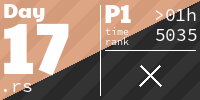
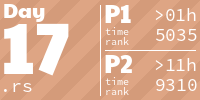
day17 - part 2

diff --git a/src/day17.rs b/src/day17.rs
@@ -1,4 +1,4 @@
-use std::{ops::BitXor, time::Instant};
+use std::ops::BitXor;
 
 use crate::utils::*;
 
@@ -8,24 +8,23 @@ use crate::utils::*;
 
 #[derive(Debug, Clone)]
 struct Machine {
-    a: u32,
-    b: u32,
-    c: u32,
-    prg: Vec<u32>,
+    a: u64,
+    b: u64,
+    c: u64,
+    prg: Vec<u64>,
     pc: usize,
-    out: Vec<u32>,
-    out_size: usize,
+    out: Vec<u64>,
 }
 
 impl Machine {
     pub fn from_str(input: &str) -> Machine {
         let mut lines = input.lines();
         let line_a = lines.next().unwrap();
-        let a = tou32(line_a.split_once(": ").unwrap().1);
+        let a = tou64(line_a.split_once(": ").unwrap().1);
         let line_b = lines.next().unwrap();
-        let b = tou32(line_b.split_once(": ").unwrap().1);
+        let b = tou64(line_b.split_once(": ").unwrap().1);
         let line_c = lines.next().unwrap();
-        let c = tou32(line_c.split_once(": ").unwrap().1);
+        let c = tou64(line_c.split_once(": ").unwrap().1);
         lines.next(); // empty line
         let line_prg = lines.next().unwrap();
         let prg = line_prg
@@ -33,7 +32,7 @@ impl Machine {
             .unwrap()
             .1
             .split(",")
-            .map(tou32)
+            .map(tou64)
             .collect();
         Machine {
             a,
@@ -42,11 +41,10 @@ impl Machine {
             prg,
             pc: 0,
             out: vec![],
-            out_size: 0,
         }
     }
 
-    pub fn combo(&self, operand: u32) -> u32 {
+    pub fn combo(&self, operand: u64) -> u64 {
         match operand {
             4 => self.a,
             5 => self.b,
@@ -65,22 +63,27 @@ impl Machine {
                 // adv
                 self.a = self.a >> combo_v;
                 self.pc += 2;
+                // println!("adv: a={}", self.a);
             }
             1 => {
                 // bxl
                 self.b = self.b.bitxor(lit_v);
                 self.pc += 2;
+                // println!("bxl: b={}", self.b);
             }
             2 => {
                 // bst
                 self.b = combo_v & 7;
                 self.pc += 2;
+                // println!("bst: b={}", self.b);
             }
             3 => {
                 // jnz
                 if self.a == 0 {
+                    // println!("jnz: noop");
                     self.pc += 2;
                 } else {
+                    // println!("jnz: pc={}", lit_v);
                     self.pc = lit_v as usize;
                 }
             }
@@ -88,22 +91,25 @@ impl Machine {
                 // bxc
                 self.b = self.b.bitxor(self.c);
                 self.pc += 2;
+                // println!("bxc: b={}", self.b);
             }
             5 => {
                 // out
                 self.out.push(combo_v & 7);
-                self.out_size += 1;
                 self.pc += 2;
+                // println!("out: val={}", combo_v & 7);
             }
             6 => {
                 // bdv
                 self.b = self.a >> combo_v;
                 self.pc += 2;
+                // println!("bdv: b={}", self.b);
             }
             7 => {
                 // cdv
                 self.c = self.a >> combo_v;
                 self.pc += 2;
+                // println!("cdv: c={}", self.c);
             }
             _ => panic!("invalid opcode"),
         }
@@ -115,23 +121,11 @@ impl Machine {
         }
     }
 
-    pub fn run_prg_with_limit(&mut self) -> bool {
-        let prg_len = self.prg.len();
-        let mut out_len = 0;
-        while self.pc < prg_len {
-            let was_out = self.prg[self.pc] == 5;
-            self.run_at_pc();
-            if was_out {
-                out_len += 1;
-                if out_len > prg_len {
-                    return false;
-                }
-                if self.out.last() != Some(&self.prg[out_len - 1]) {
-                    return false;
-                }
-            }
-        }
-        out_len == prg_len
+    pub fn run_with_a(&self, a: u64) -> Vec<u64> {
+        let mut m = self.clone();
+        m.a = a;
+        m.run_prg();
+        m.out
     }
 }
 
@@ -150,26 +144,62 @@ fn p1(input: &str) -> String {
 // p2
 //--------------------------------------------------------------------------------
 
-fn p2(input: &str) -> u32 {
-    let base_machine = Machine::from_str(input);
+// observations:
+// =============
+// - length of count:
+//     0 to 2^3-1 -> 1 out
+//     2^3 to 2^6-1 -> 2 out
+//     2^6 to 2^9-1 -> 3 out
+//     2^9 to 2^12-1 -> 4 out
+//     2^12  -> 5 out
+//     2^15 -> 6 out
+//     2^18  -> 7 out
+//     2^21  -> 8 out
+//     2^24  -> 9 out
+//     2^27 -> 10 out
+//     2^30 -> 11 out
+// - in an internval where out is of length L (so 2^(L*3) to 2^(L*3+3)-1)
+//      - last out entry is always going through the same series: 4, 6, 7, 0, 1, 2, 3, repeated 2^(L*3) times each
+//      - previous out entry goes thought a sequence as well, each repeated 2^(L*3-3)
+//      - then previous out goes though a sequence of 2^(L*3-6)
+//      - so for L = 5: from 4096 to 32767
+//          - last digit changes every  4096 times
+//          - previous digit changes every 512 times (ratio 2^3)
+//          - previous digit changes every 64 times (ratio 2^3)
+//          - previous digit changes every 8 times (ratio 2^3)
 
-    let start = Instant::now();
-    let mut a = 0;
-    loop {
-        if (a % 100_000_000) == 0 {
-            println!("[{}] a={}", fmt_duration(start.elapsed()), a / 100_000_000);
-        }
-        let mut machine = base_machine.clone();
-        machine.a = a;
-        let same_out_len = machine.run_prg_with_limit();
-        if same_out_len {
-            if machine.out == machine.prg {
-                break;
+fn p2(input: &str) -> u64 {
+    let machine = Machine::from_str(input);
+    let len = machine.prg.len();
+
+    let power0 = (len - 1) * 3;
+
+    // we are going to keep a list of possible starts for the current digit
+    let mut starts_to_idx = vec![1 << power0];
+
+    for idx in (0..len).rev() {
+        // 2^power is the offset of the next start where the digit idx is going to change
+        let power = idx * 3;
+        let offset = 1 << power;
+
+        let digit_to_match = machine.prg[idx];
+
+        let mut starts_for_next_idx = vec![];
+        while let Some(mut start) = starts_to_idx.pop() {
+            for _ in 0..8 {
+                let out = machine.run_with_a(start);
+                if out[idx] == digit_to_match {
+                    starts_for_next_idx.push(start);
+                }
+                start += offset;
             }
         }
-        a += 1;
+
+        starts_to_idx = starts_for_next_idx;
     }
-    a
+
+    starts_to_idx.sort();
+    starts_to_idx[0]
 }
 
 //--------------------------------------------------------------------------------
@@ -179,6 +209,7 @@ fn p2(input: &str) -> u32 {
 pub fn run() {
     pp_day("day17: Warehouse Woes");
     time_it(p1, "p1", "data/17_sample.txt");
+    time_it(p1, "p1", "data/17_sample2.txt");
     time_it(p1, "p1", "data/17_input.txt");
     time_it(p2, "p2", "data/17_sample2.txt");
     time_it(p2, "p2", "data/17_input.txt");
@@ -193,7 +224,5 @@ mod tests {
         assert_eq!(run_it(p1, "data/17_sample.txt"), "4,6,3,5,6,3,5,2,1,0");
         assert_eq!(run_it(p1, "data/17_input.txt"), "4,1,5,3,1,5,3,5,7");
         assert_eq!(run_it(p2, "data/17_sample2.txt"), 117440);
-        // assert_eq!(run_it(p1, "data/17_sample_small.txt"), 2028);
-        // assert_eq!(run_it(p2, "data/17_sample.txt"), 9021);
     }
 }

diff --git a/README.md b/README.md
@@ -1,6 +1,6 @@
 <!-- AOC TILES BEGIN -->
 <h1 align="center">
-  2024 - 33 ⭐ - Rust
+  2024 - 34 ⭐ - Rust
 </h1>
 <a href="src/day01.rs">
   <img src=".aoc_tiles/tiles/2024/01.png" width="161px">
